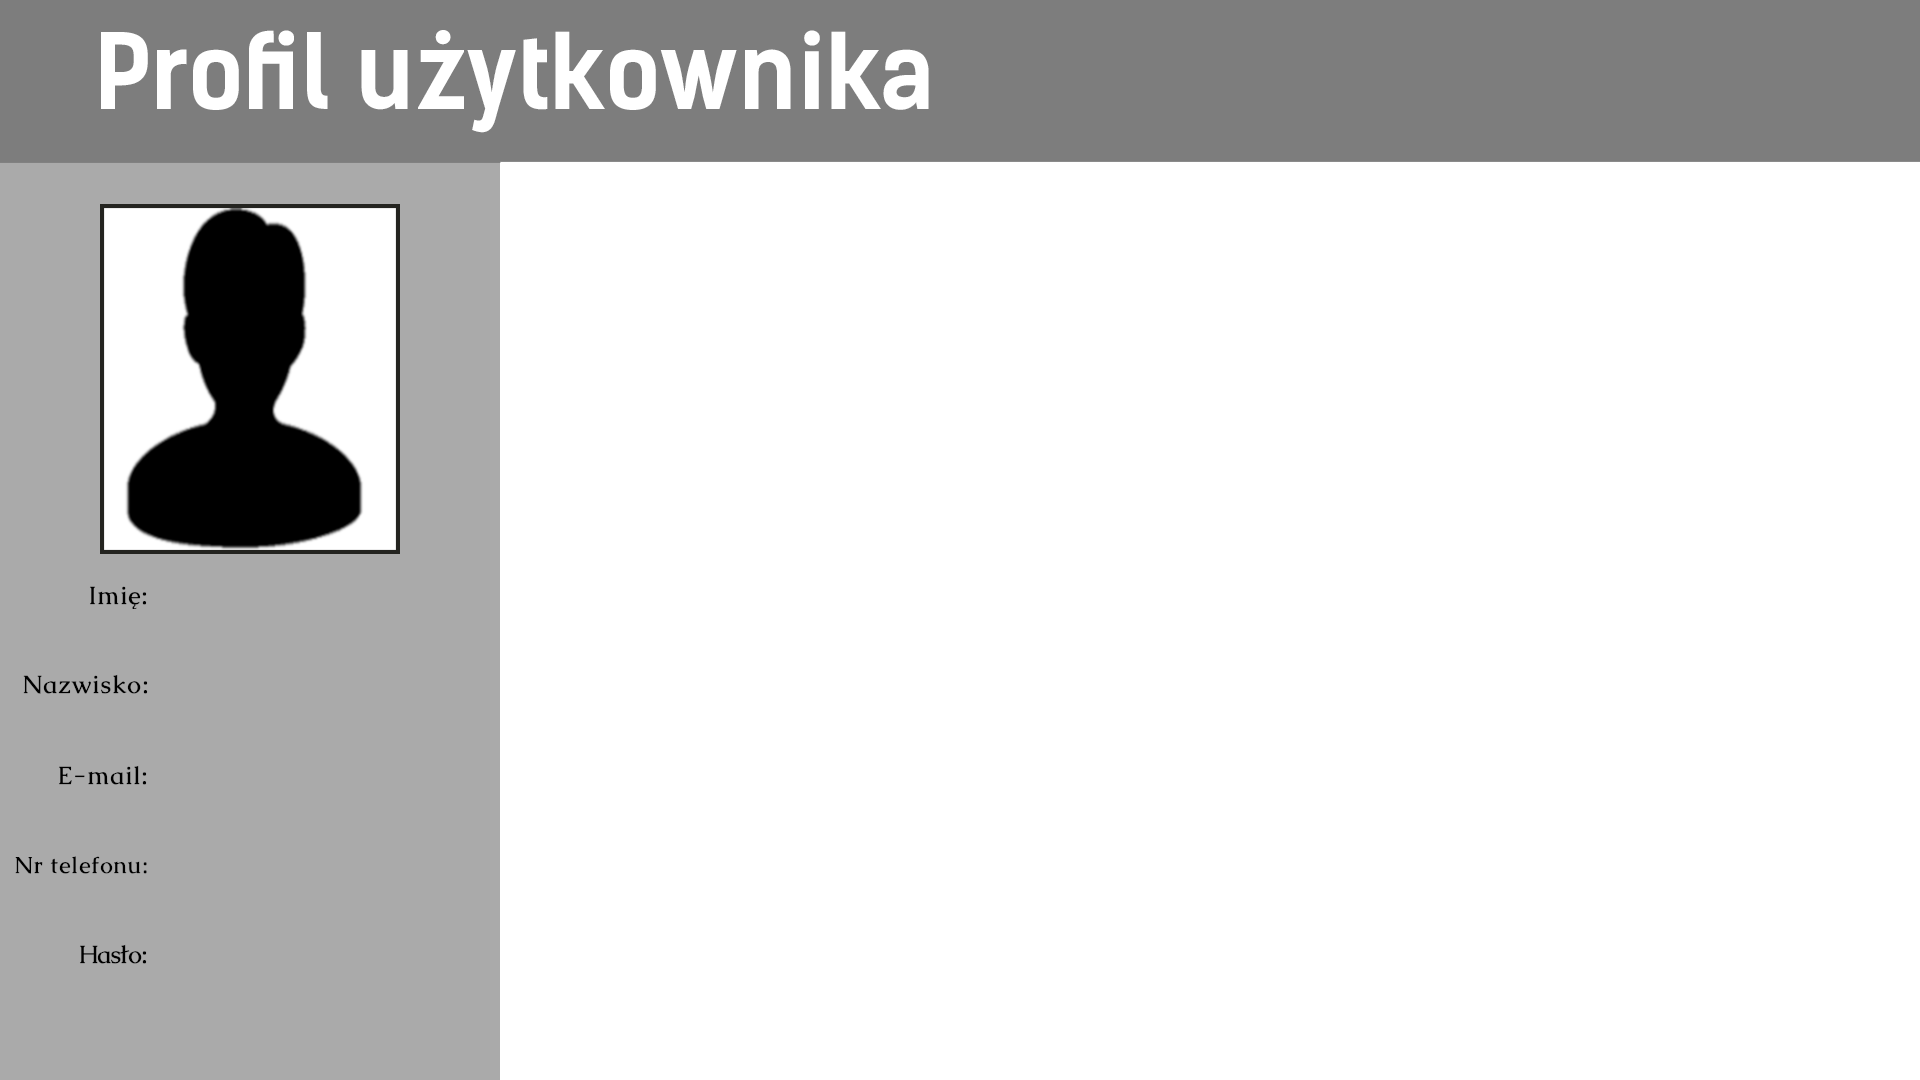
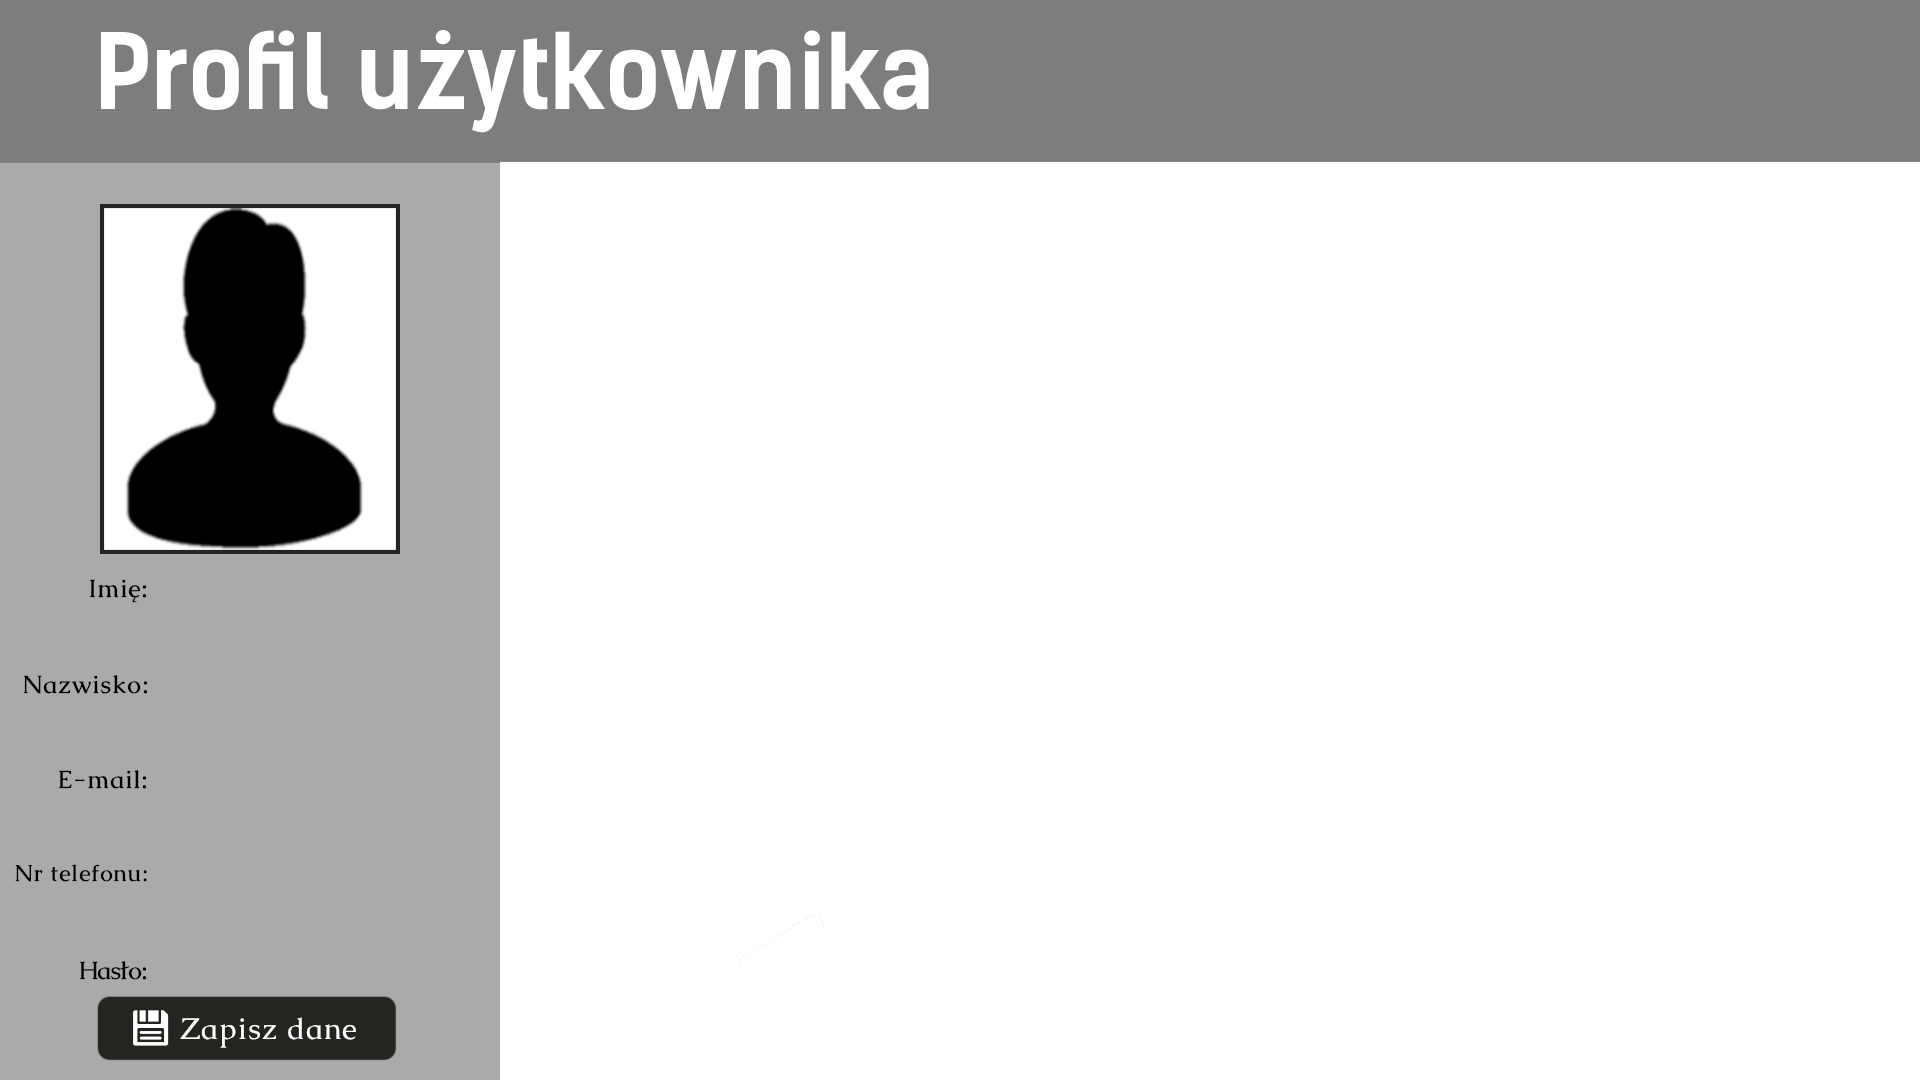
Zmienione grafiki

Changed region(s): [[0.0312, 0.8861, 0.2188, 1.0], [0.0, 0.7944, 0.0938, 0.825], [0.0312, 0.7028, 0.0625, 0.7333]]

diff --git a/src/com/okno/OknoUzytkownika.java b/src/com/okno/OknoUzytkownika.java
@@ -170,7 +170,7 @@ public class OknoUzytkownika extends JPanel implements ActionListener, MouseList
         fNoweHaslo.setVisible(false);
         add(fNoweHaslo);
 
-        bZapiszDane = new JLabel(new ImageIcon("Coś tam\\Nowe Grafiki\\zatwierdz.png"));
+        bZapiszDane = new JLabel(new ImageIcon("Coś tam\\Nowe Grafiki\\zapisz_dane.png"));
         bZapiszDane.setBounds(97,995,300,67);
         bZapiszDane.setBorder(null);
         bZapiszDane.setVisible(false);
